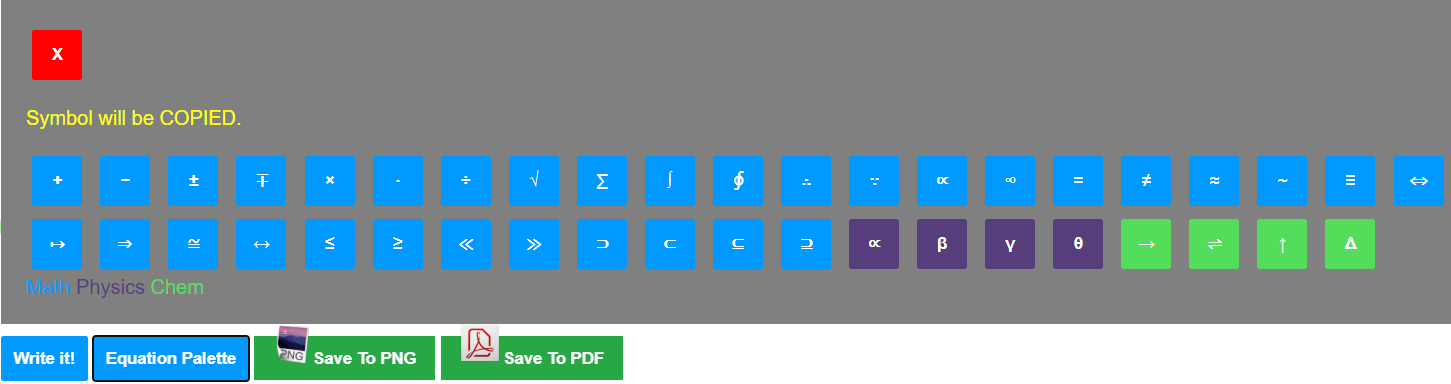
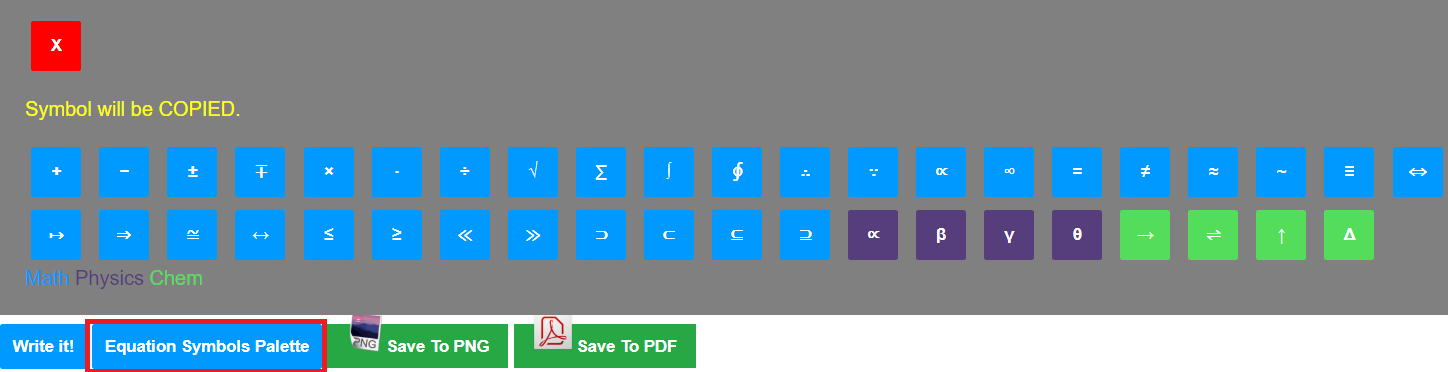
Equation To Symbol Palette Migration

diff --git a/index.html b/index.html
@@ -20,7 +20,7 @@
     <!-- Equation Hover -->
     <input type="text" id="eqcop" value="">
     <div id="equation-hover">
-      <button class="close-icon" title="Close equation palette">X</button>
+      <button class="close-icon" title="Close Symbols palette">X</button>
       <p style="color: rgb(255, 255, 0);">Symbol will be COPIED.</p>
       <button class="matheq" value="+" onclick="eqcopier('+');">+</button>
       <button class="matheq" value="−" onclick="eqcopier('−');">−</button>
@@ -203,7 +203,7 @@
 
     <!-- Command Buttons -->
     <button class="generate-image">Write it!</button>
-    <button class="equation-palette">Equation Palette</button>
+    <button class="equation-palette">Equation Symbols Palette</button>
     <a class="download-button disabled hide-mobile"><img src="img/png-icon.png" style="width: 32px !important; padding: 0; margin: 0;">Save To PNG</a>
     <a class="pdf-button disabled hide-mobile" onclick="pdfGenerator();"><img src="img/pdf-icon.png" style="width: 32px !important; padding: 0; margin-right: 3px;">Save To PDF</a>
 

diff --git a/README.md b/README.md
@@ -32,5 +32,5 @@ Created with ♥ for students, by a student.
 ### 5⃣ Download As Image OR PDF!
 ![Downloads](img/download.png)
 
-### 6⃣ Copy And Paste Equations Without Leaving The Tab!
+### 6⃣ Copy And Paste Equation Symbols Without Leaving The Tab!
 ![Equations](img/equation.png)
